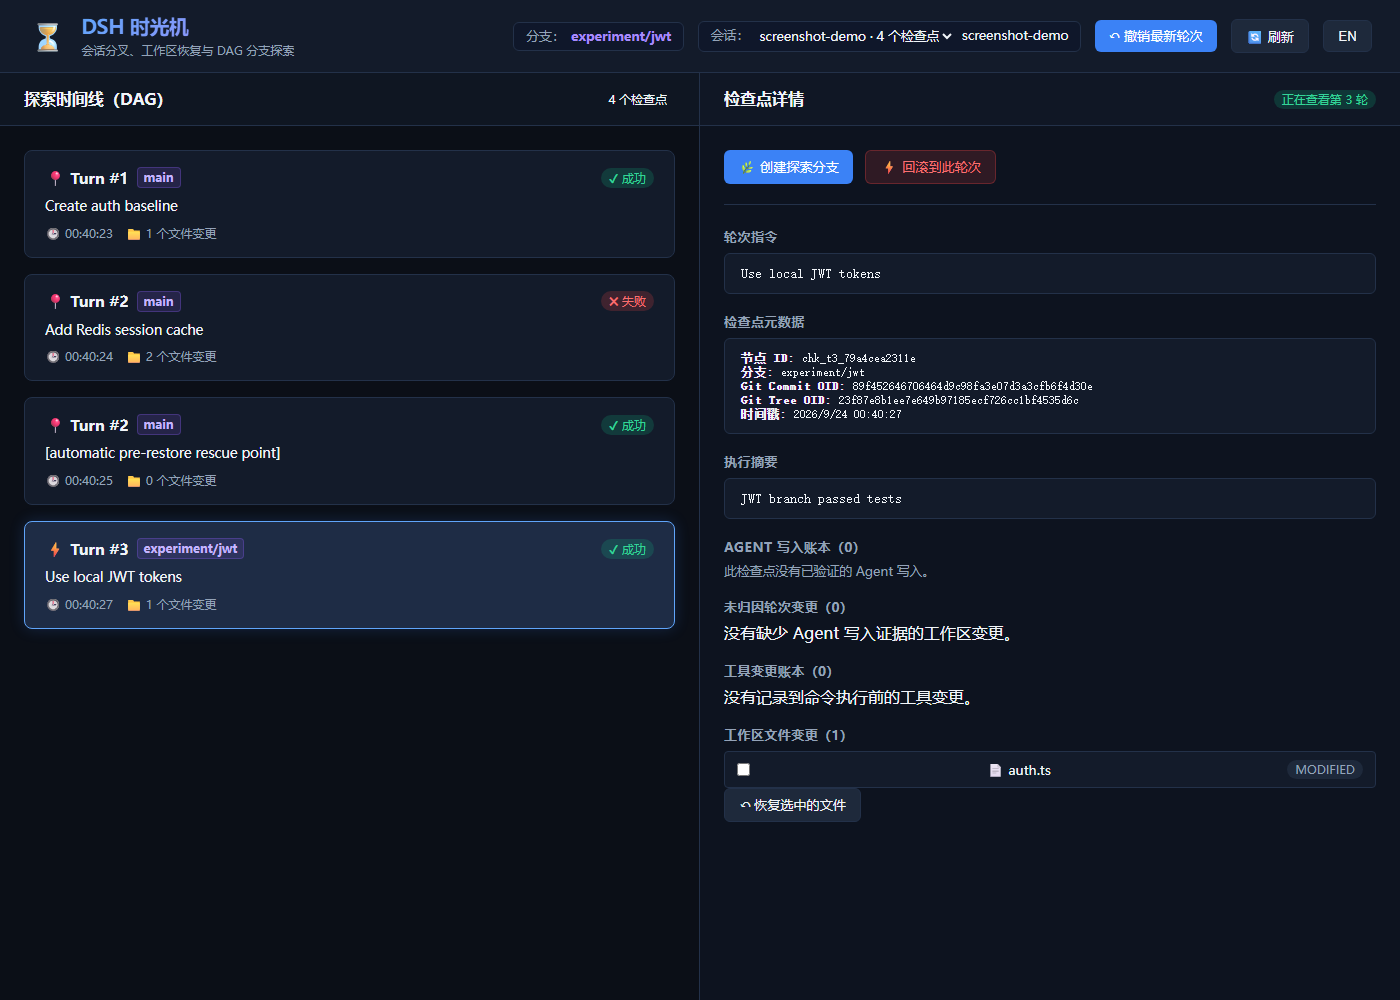
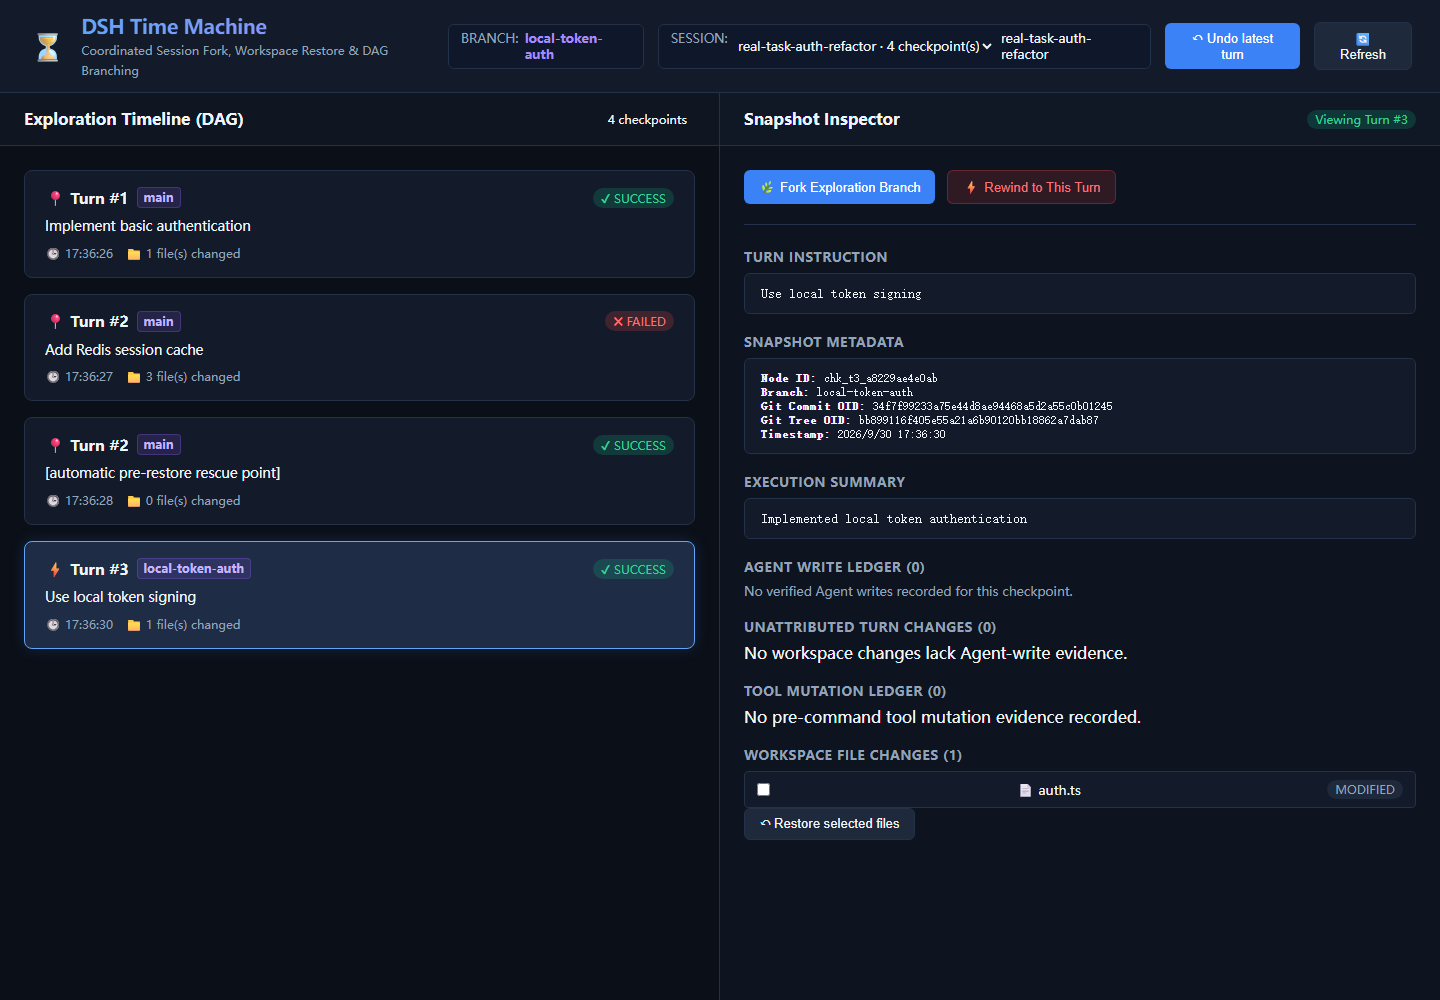
docs: add evidence from a real rewind and fork task
Add a real TimeMachineService run, verified workspace cleanup, DAG/Diff report, and dashboard screenshot.

diff --git a/docs/REAL_TASK_REPORT.md b/docs/REAL_TASK_REPORT.md
@@ -1,0 +1,55 @@
+# 真实任务演示报告
+
+本报告记录一次由维护者亲自运行的可丢弃示例任务，而不是只运行单元测试或静态配置检查。
+
+## 任务场景
+
+目标是为一个小型认证模块选择实现方案：
+
+1. 先创建 `auth.ts` 基线，实现最基本的用户认证；
+2. 尝试引入 Redis 会话缓存；
+3. Redis 方案失败，并产生 `redis.ts` 与 `debug-output/failed.log` 等新增工作区文件；
+4. 从基线 checkpoint 分叉到 `local-token-auth`；
+5. 使用本地 token 实现替代 Redis；
+6. 通过 Dashboard 检查 DAG、失败证据、恢复点和文件 Diff。
+
+## 实际运行结果
+
+运行命令：
+
+```powershell
+pnpm exec tsx test/live-demo.ts
+```
+
+本次独立 Web 演示使用了临时 Git workspace 和真实 `TimeMachineService`、`TimeMachineWebServer` 实例，运行结果为：
+
+```text
+sessionId: real-task-auth-refactor
+baseline: chk_t1_5e7f34402518
+fixed: chk_t3_a8229ae4e0ab
+url: http://127.0.0.1:3188
+nodeCount: 4
+branchCount: 2
+diffCount: 1
+DEMO_SERVER_READY
+```
+
+工作区变化和回滚结果：
+
+- `auth.ts` 从基线实现变为失败的 Redis 版本；
+- `redis.ts` 和 `debug-output/failed.log` 属于失败尝试；
+- 从基线创建 `local-token-auth` 分支后，失败尝试的新增文件被清理；
+- 新分支写入本地 token 认证实现；
+- DAG 持久化了 4 个节点：基线、失败尝试、自动恢复前救援点、分叉后的成功实现；
+- `/api/diff` 返回 1 个文件差异；
+- Dashboard 右侧可查看 checkpoint 元数据、Git commit/tree OID、工作区文件变化和恢复入口。
+
+## 实际截图
+
+![真实任务运行中的 DSH Time Machine Dashboard](assets/dashboard-real.png)
+
+截图来自上述运行生成的 `http://127.0.0.1:3188/?sessionId=real-task-auth-refactor`，不是设计稿或合成图片。截图中的认证实现、Redis 失败和 local-token 分支均为本次可丢弃演示任务生成的样例数据，不包含真实业务代码、密钥或外部服务凭据。
+
+## 证据边界
+
+这次演示证明插件服务层确实完成了工作区快照、失败分支保留、物理清理、分叉、DAG 和 Web 展示；它不等同于真实模型一定会选择 DSH 原生工具，也不证明数据库、网络请求或其他外部副作用可以被文件恢复撤销。真实 DSH 宿主边界见 [HOST_VALIDATION_REPORT.md](HOST_VALIDATION_REPORT.md)。

diff --git a/README.en.md b/README.en.md
@@ -4,7 +4,7 @@
 
 An unofficial DeepSeek Harness community plugin that saves file and session boundaries, previews restores, and keeps the history of each attempt.
 
-[简体中文](README.md) · [v0.2.0 release](https://github.com/GeoSyntax/dsh-plugin-time-machine/releases/tag/v0.2.0) · [Feature comparison](docs/COMPARISON.md) · [Test plan](docs/TEST_PLAN.md) · [Report an issue](https://github.com/GeoSyntax/dsh-plugin-time-machine/issues)
+[简体中文](README.md) · [v0.2.0 release](https://github.com/GeoSyntax/dsh-plugin-time-machine/releases/tag/v0.2.0) · [Real task report](docs/REAL_TASK_REPORT.md) · [Feature comparison](docs/COMPARISON.md) · [Test plan](docs/TEST_PLAN.md) · [Report an issue](https://github.com/GeoSyntax/dsh-plugin-time-machine/issues)
 
 ## Preview
 

diff --git a/README.md b/README.md
@@ -4,7 +4,7 @@
 
 面向 DeepSeek Harness 的非官方社区插件：保存文件和会话边界，预览后恢复工作区，并保留每条尝试过的分支。
 
-[English](README.en.md) · [v0.2.0 发行说明](https://github.com/GeoSyntax/dsh-plugin-time-machine/releases/tag/v0.2.0) · [功能对照](docs/COMPARISON.md) · [测试记录](docs/TEST_PLAN.md) · [问题反馈](https://github.com/GeoSyntax/dsh-plugin-time-machine/issues)
+[English](README.en.md) · [v0.2.0 发行说明](https://github.com/GeoSyntax/dsh-plugin-time-machine/releases/tag/v0.2.0) · [真实任务报告](docs/REAL_TASK_REPORT.md) · [功能对照](docs/COMPARISON.md) · [测试记录](docs/TEST_PLAN.md) · [问题反馈](https://github.com/GeoSyntax/dsh-plugin-time-machine/issues)
 
 ## 效果预览
 
